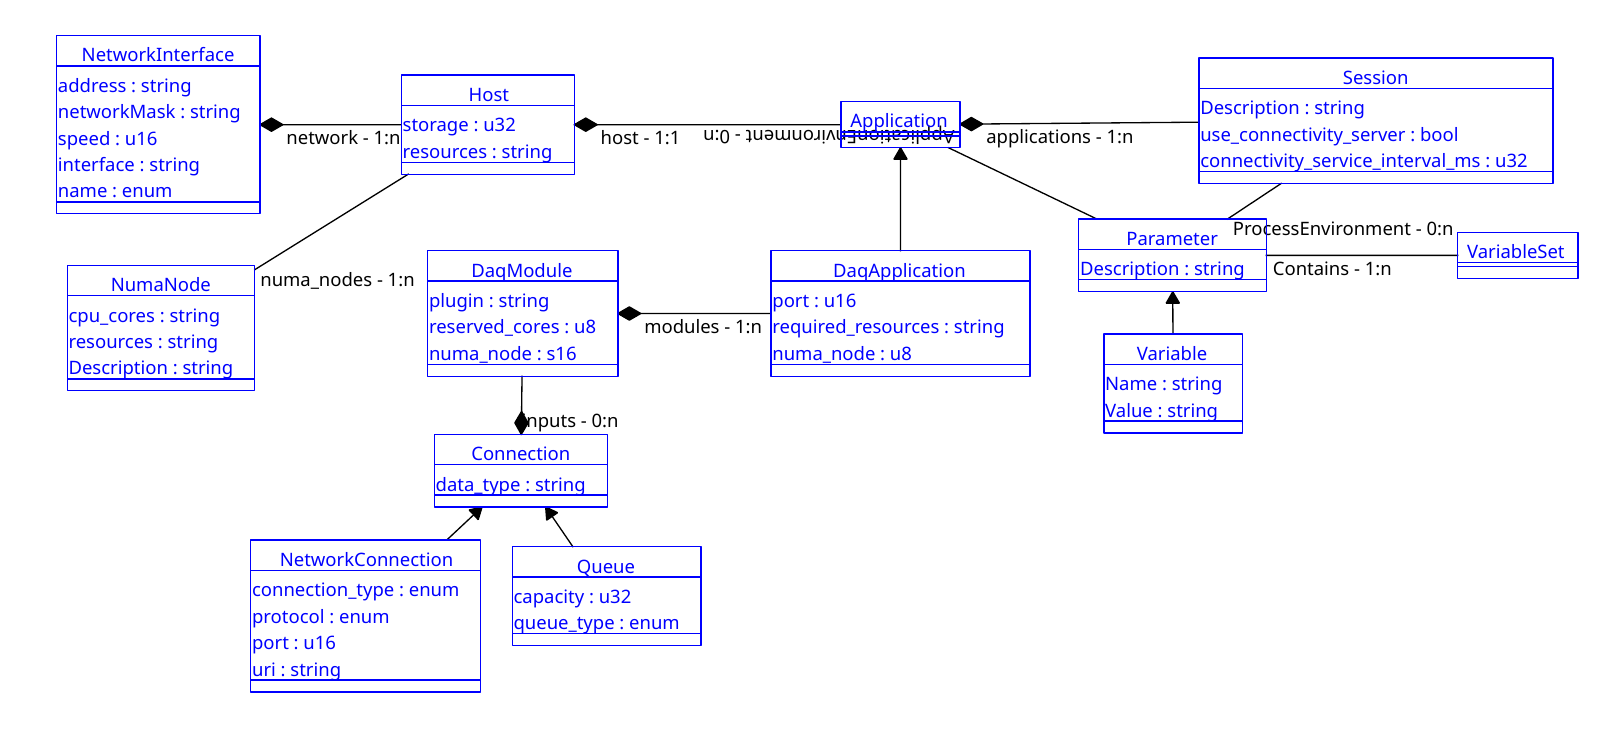
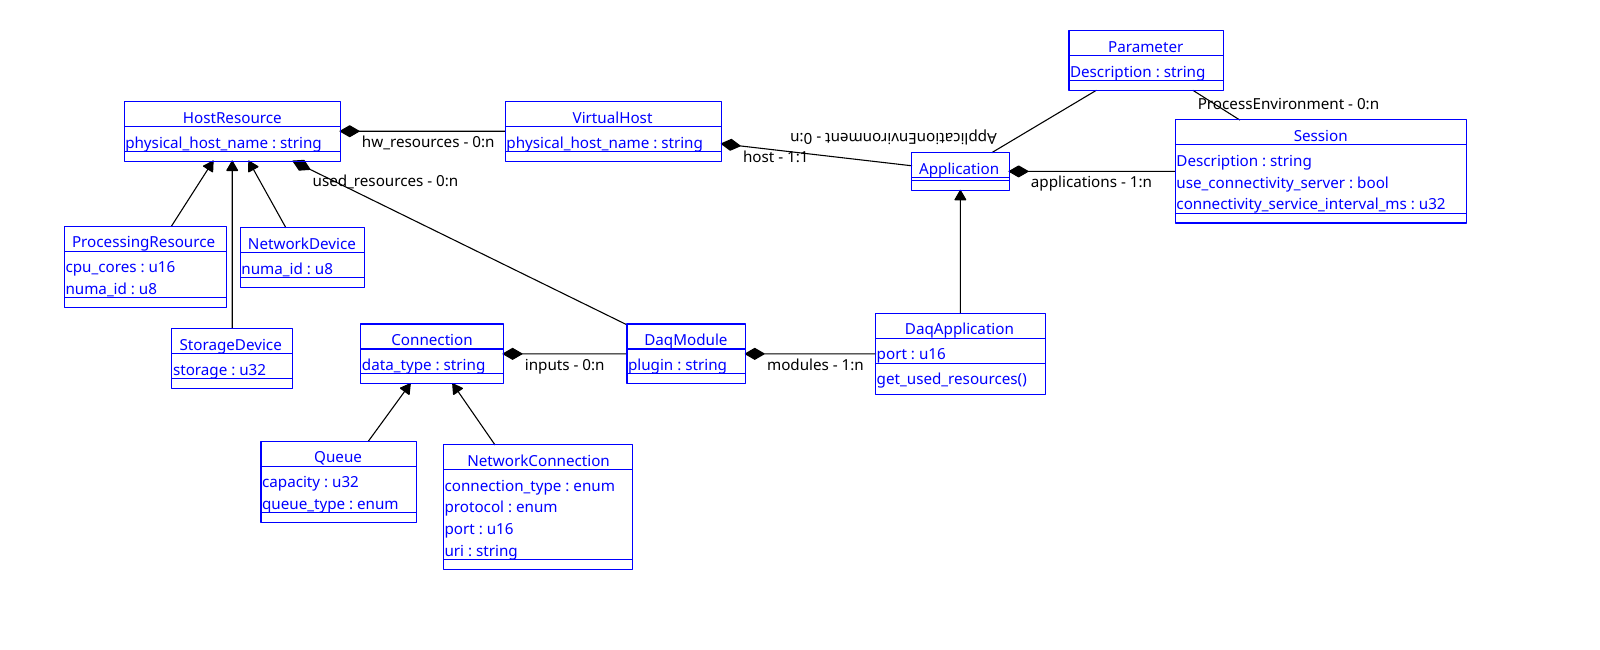
Remove ProcessingResourceClaim and add get_used_resources method to DaqApplication

Changed region(s): [[0.0312, 0.0615, 1.0, 0.9231], [0.6875, 0.4308, 0.7812, 0.5846]]

diff --git a/docs/README.md b/docs/README.md
@@ -5,23 +5,20 @@ This package contains a putative 'core' schema for dunedaq OKS configuartion.
 
 ## Notes
 
-### Host and NumaNode
+### VirtualHost
 
- The idea is that these decribe the physical host server and that any
-restrictions to the list of CPU cores to be used by an application are
-specified in the Application configuartion.
+ The idea is that this decribes the subset of resources of a physical
+host server that are available to an Application. For example two
+applications may be assigned to the same physical server but each be
+allocated resources of a different NUMA node.
 
 ### DaqApplication and DaqModule
 
- The DaqApplication can be restricted to using only a subset of the
-NUMA nodes on its host by the `numa_node` list. The DaqModule can ask
-for cores for its threads to be allocated from one of the NUMA nodes
-associated with the DaqApplication.
-
-* Is this too complicated?
-* Is it error prone in that the node specified by the DaqModule may
-not be listed in the DaqApplication?
-
+ The DaqApplication contains a list of DaqModules each of which has a
+list of used resources. The DaqApplication provides a method
+`get_used_resources` which can be called by `appfwk` in order to check
+that these resources are indeed associated with the VirtualHost by
+comparing with those listed in its `hw_resources` relationship.
 
 ### NetworkConnection
 
